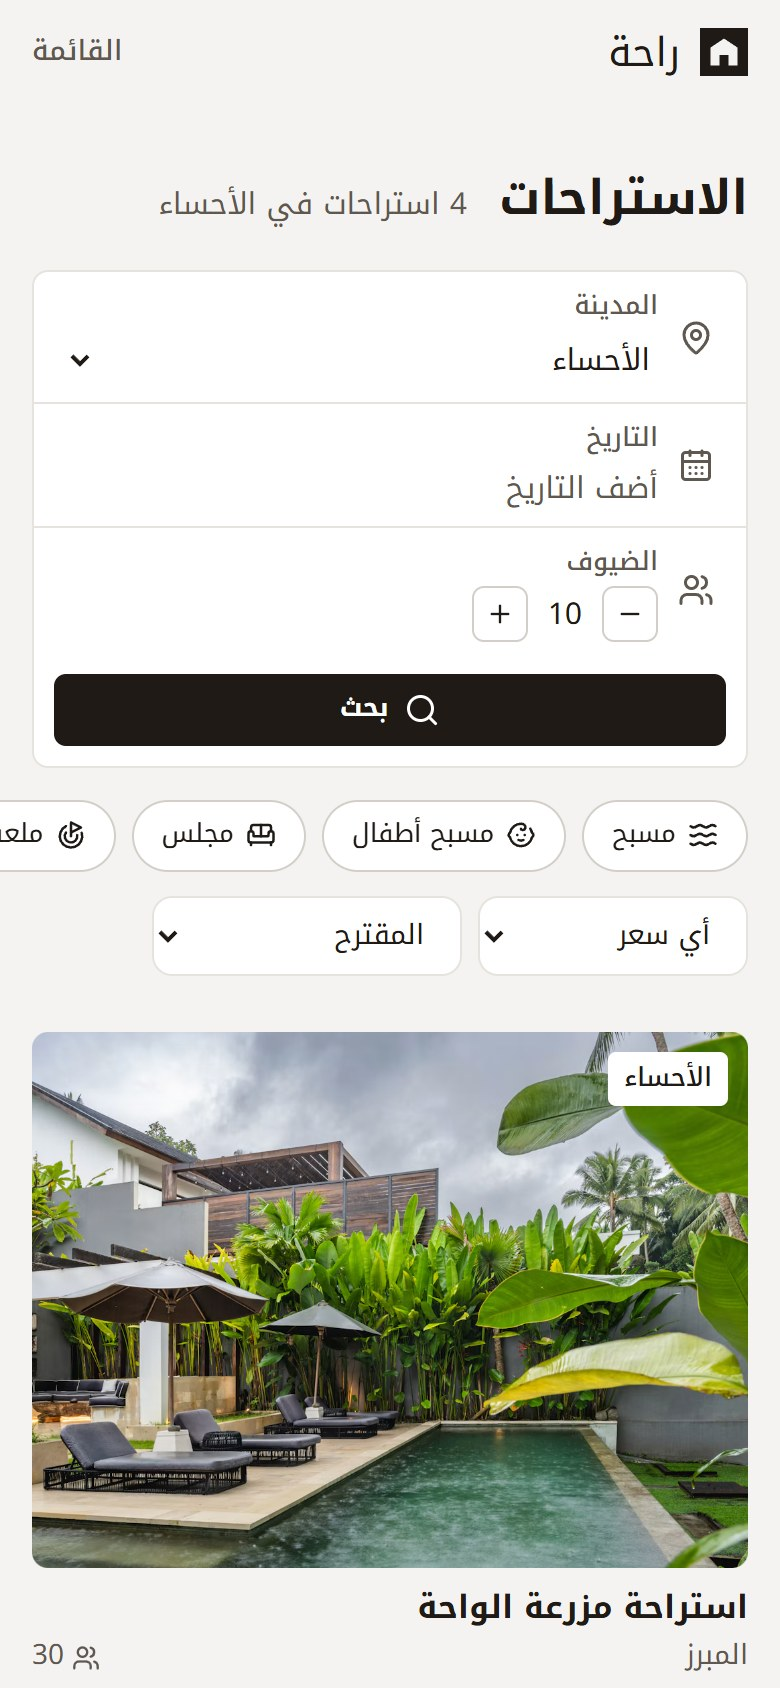
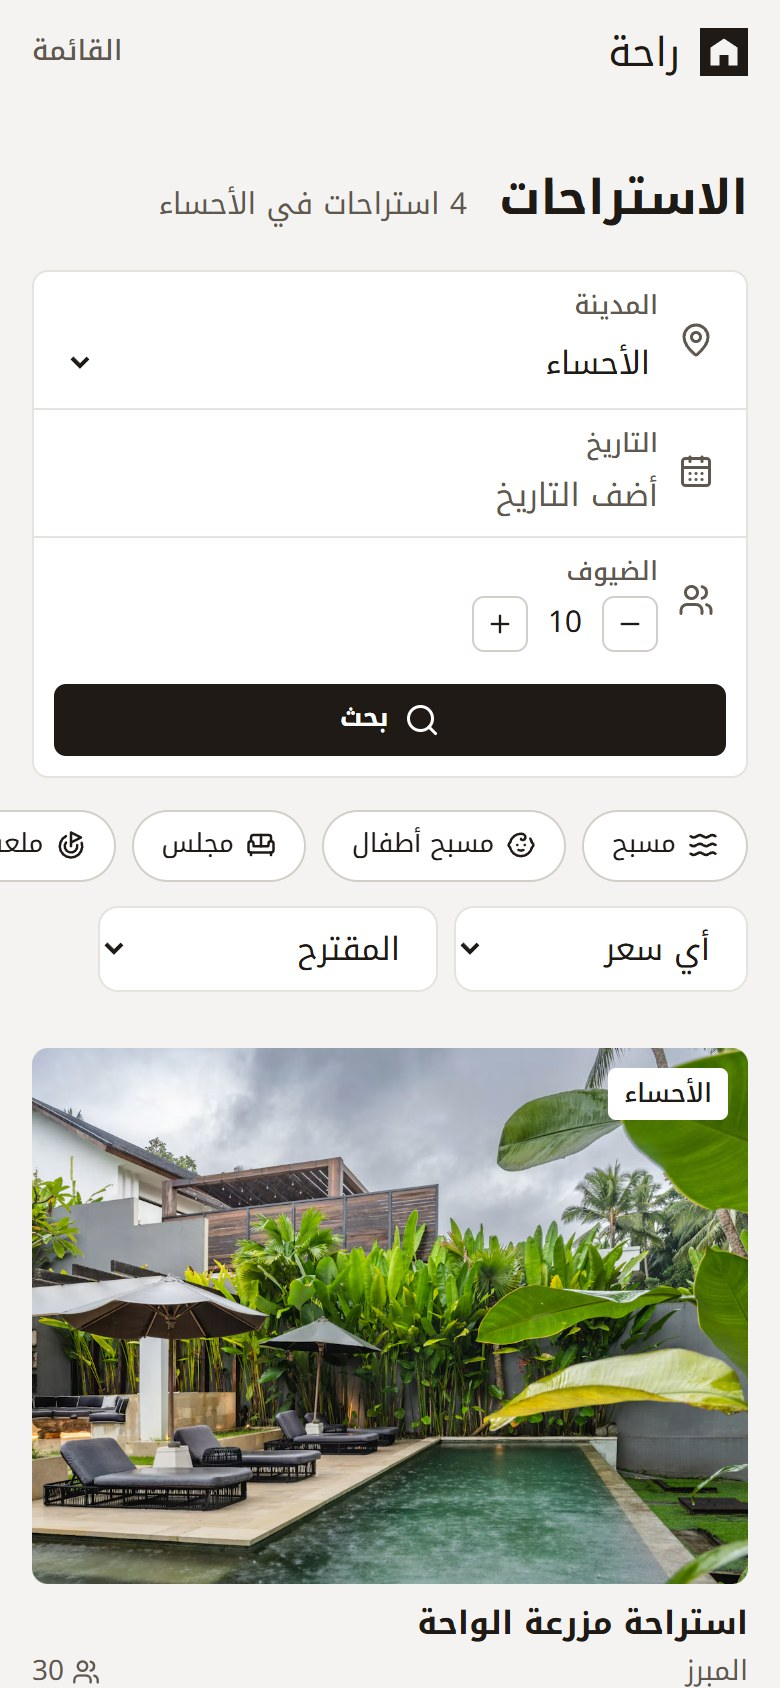
Fit the site to iPhones
- Fields are 16px on touch screens, so Safari no longer zooms in on tap
- The page reaches under the notch, with margins and sheets clearing it
- Sections fade in when their top edge arrives, so the tall rate sheet
  shows on phones
- Seven nights in one row on phones; Arabic weekdays in two centred rows
- RAHA keeps Barlow Condensed on Arabic pages so the title fits
- Grey row lines wrap on phones instead of running off the screen

diff --git a/client/src/pages/HomePage.module.css b/client/src/pages/HomePage.module.css
@@ -74,6 +74,10 @@
 
 /* Kufi glyphs are taller than Barlow Condensed at the same size; a tight box
    keeps the word from reaching up into the line above. */
+.name [lang="en"] {
+  font-family: "Barlow Condensed", sans-serif; /* even on an Arabic page, where Kufi leads the stack */
+}
+
 .name [lang="ar"] {
   font-family: "Noto Kufi Arabic", sans-serif;
   font-size: 0.72em;
@@ -275,6 +279,26 @@ html[lang="ar"] .groupName {
     width: 100%;
     margin-block: 0;
     padding: 40px 28px;
+  }
+  /* A week of nights in one even row, even on the narrowest iPhone. */
+  .nights {
+    display: grid;
+    grid-template-columns: repeat(7, minmax(0, 1fr));
+    gap: 2px;
+  }
+  .night {
+    min-width: 0;
+    padding-inline: 0;
+  }
+  /* Arabic weekdays are whole words, too wide for seven across: two centred rows. */
+  html[lang="ar"] .nights {
+    display: flex;
+    flex-wrap: wrap;
+    justify-content: center;
+    gap: 4px;
+  }
+  html[lang="ar"] .night {
+    flex: 0 0 calc(25% - 3px);
   }
 }
 

diff --git a/client/src/components/Reveal.tsx b/client/src/components/Reveal.tsx
@@ -12,7 +12,10 @@ export function Reveal({ children, order = 0, className, as = "div" }: { childre
       className={className}
       initial={{ opacity: 0, y: 24 }}
       whileInView={{ opacity: 1, y: 0 }}
-      viewport={{ once: true, amount: 0.2 }}
+      // Starts once the top edge is 10% up the screen. (A share of the element,
+      // like amount: 0.2, never comes true for a part taller than five screens,
+      // such as the rate sheet on a phone.)
+      viewport={{ once: true, amount: 0, margin: "0px 0px -10% 0px" }}
       transition={{ type: "spring", bounce: 0, duration: 0.7, delay: order * 0.08 }}
     >
       {children}

diff --git a/client/src/styles/global.css b/client/src/styles/global.css
@@ -35,7 +35,8 @@
   --step-head: clamp(2.5rem, 1.2rem + 5vw, 5.5rem);
   --step-display: clamp(5.5rem, 1rem + 17vw, 17.5rem);
 
-  --margin: clamp(1rem, 2.2vw, 2rem);
+  /* On an iPhone held sideways the notch eats into one side, so the margin grows to clear it. */
+  --margin: max(clamp(1rem, 2.2vw, 2rem), env(safe-area-inset-left), env(safe-area-inset-right));
   --gutter: clamp(0.75rem, 1.4vw, 1.5rem);
   --section-gap: clamp(4.5rem, 3rem + 7vw, 12rem);
   --radius: 0px; /* square on pages, decided once */

diff --git a/client/src/components/Dashboard.module.css b/client/src/components/Dashboard.module.css
@@ -254,6 +254,10 @@
   .rowExtra {
     display: none;
   }
+  /* A phone has no room for one long line, so the grey line wraps. */
+  .withActions .rowSub {
+    white-space: normal;
+  }
   .rowActions {
     grid-column: 2;
     margin-inline-start: -10px;
@@ -436,7 +440,8 @@
   letter-spacing: 0;
 }
 
+/* On a phone the dialog is a bottom sheet, so it clears the home bar. */
 .dialogBody {
   overflow-y: auto;
-  padding: 8px 24px 24px;
+  padding: 8px 24px max(24px, env(safe-area-inset-bottom));
 }

diff --git a/client/index.html b/client/index.html
@@ -2,7 +2,7 @@
 <html lang="en" dir="ltr">
   <head>
     <meta charset="UTF-8" />
-    <meta name="viewport" content="width=device-width, initial-scale=1.0" />
+    <meta name="viewport" content="width=device-width, initial-scale=1.0, viewport-fit=cover" />
     <meta name="theme-color" content="#472913" />
     <meta name="description" content="Raha: book a whole private istiraha for the night in seven Saudi cities." />
     <link rel="icon" href="/favicon.svg" type="image/svg+xml" />

diff --git a/client/src/components/Header.module.css b/client/src/components/Header.module.css
@@ -112,7 +112,7 @@
   z-index: 50;
   display: flex;
   flex-direction: column;
-  padding: 0 var(--margin) 32px;
+  padding: env(safe-area-inset-top) var(--margin) max(32px, env(safe-area-inset-bottom));
   background: var(--bg);
   color: var(--ink);
 }

diff --git a/client/src/pages/SearchPage.module.css b/client/src/pages/SearchPage.module.css
@@ -65,3 +65,10 @@
     scrollbar-width: none;
   }
 }
+
+/* iPhone Safari zooms into any field under 16px when it's tapped. */
+@media (pointer: coarse) {
+  .selects select {
+    font-size: 16px;
+  }
+}

diff --git a/client/src/components/SearchBar.module.css b/client/src/components/SearchBar.module.css
@@ -153,3 +153,10 @@
     translate: none;
   }
 }
+
+/* iPhone Safari zooms into any field under 16px when it's tapped. */
+@media (pointer: coarse) {
+  .control {
+    font-size: 16px;
+  }
+}
